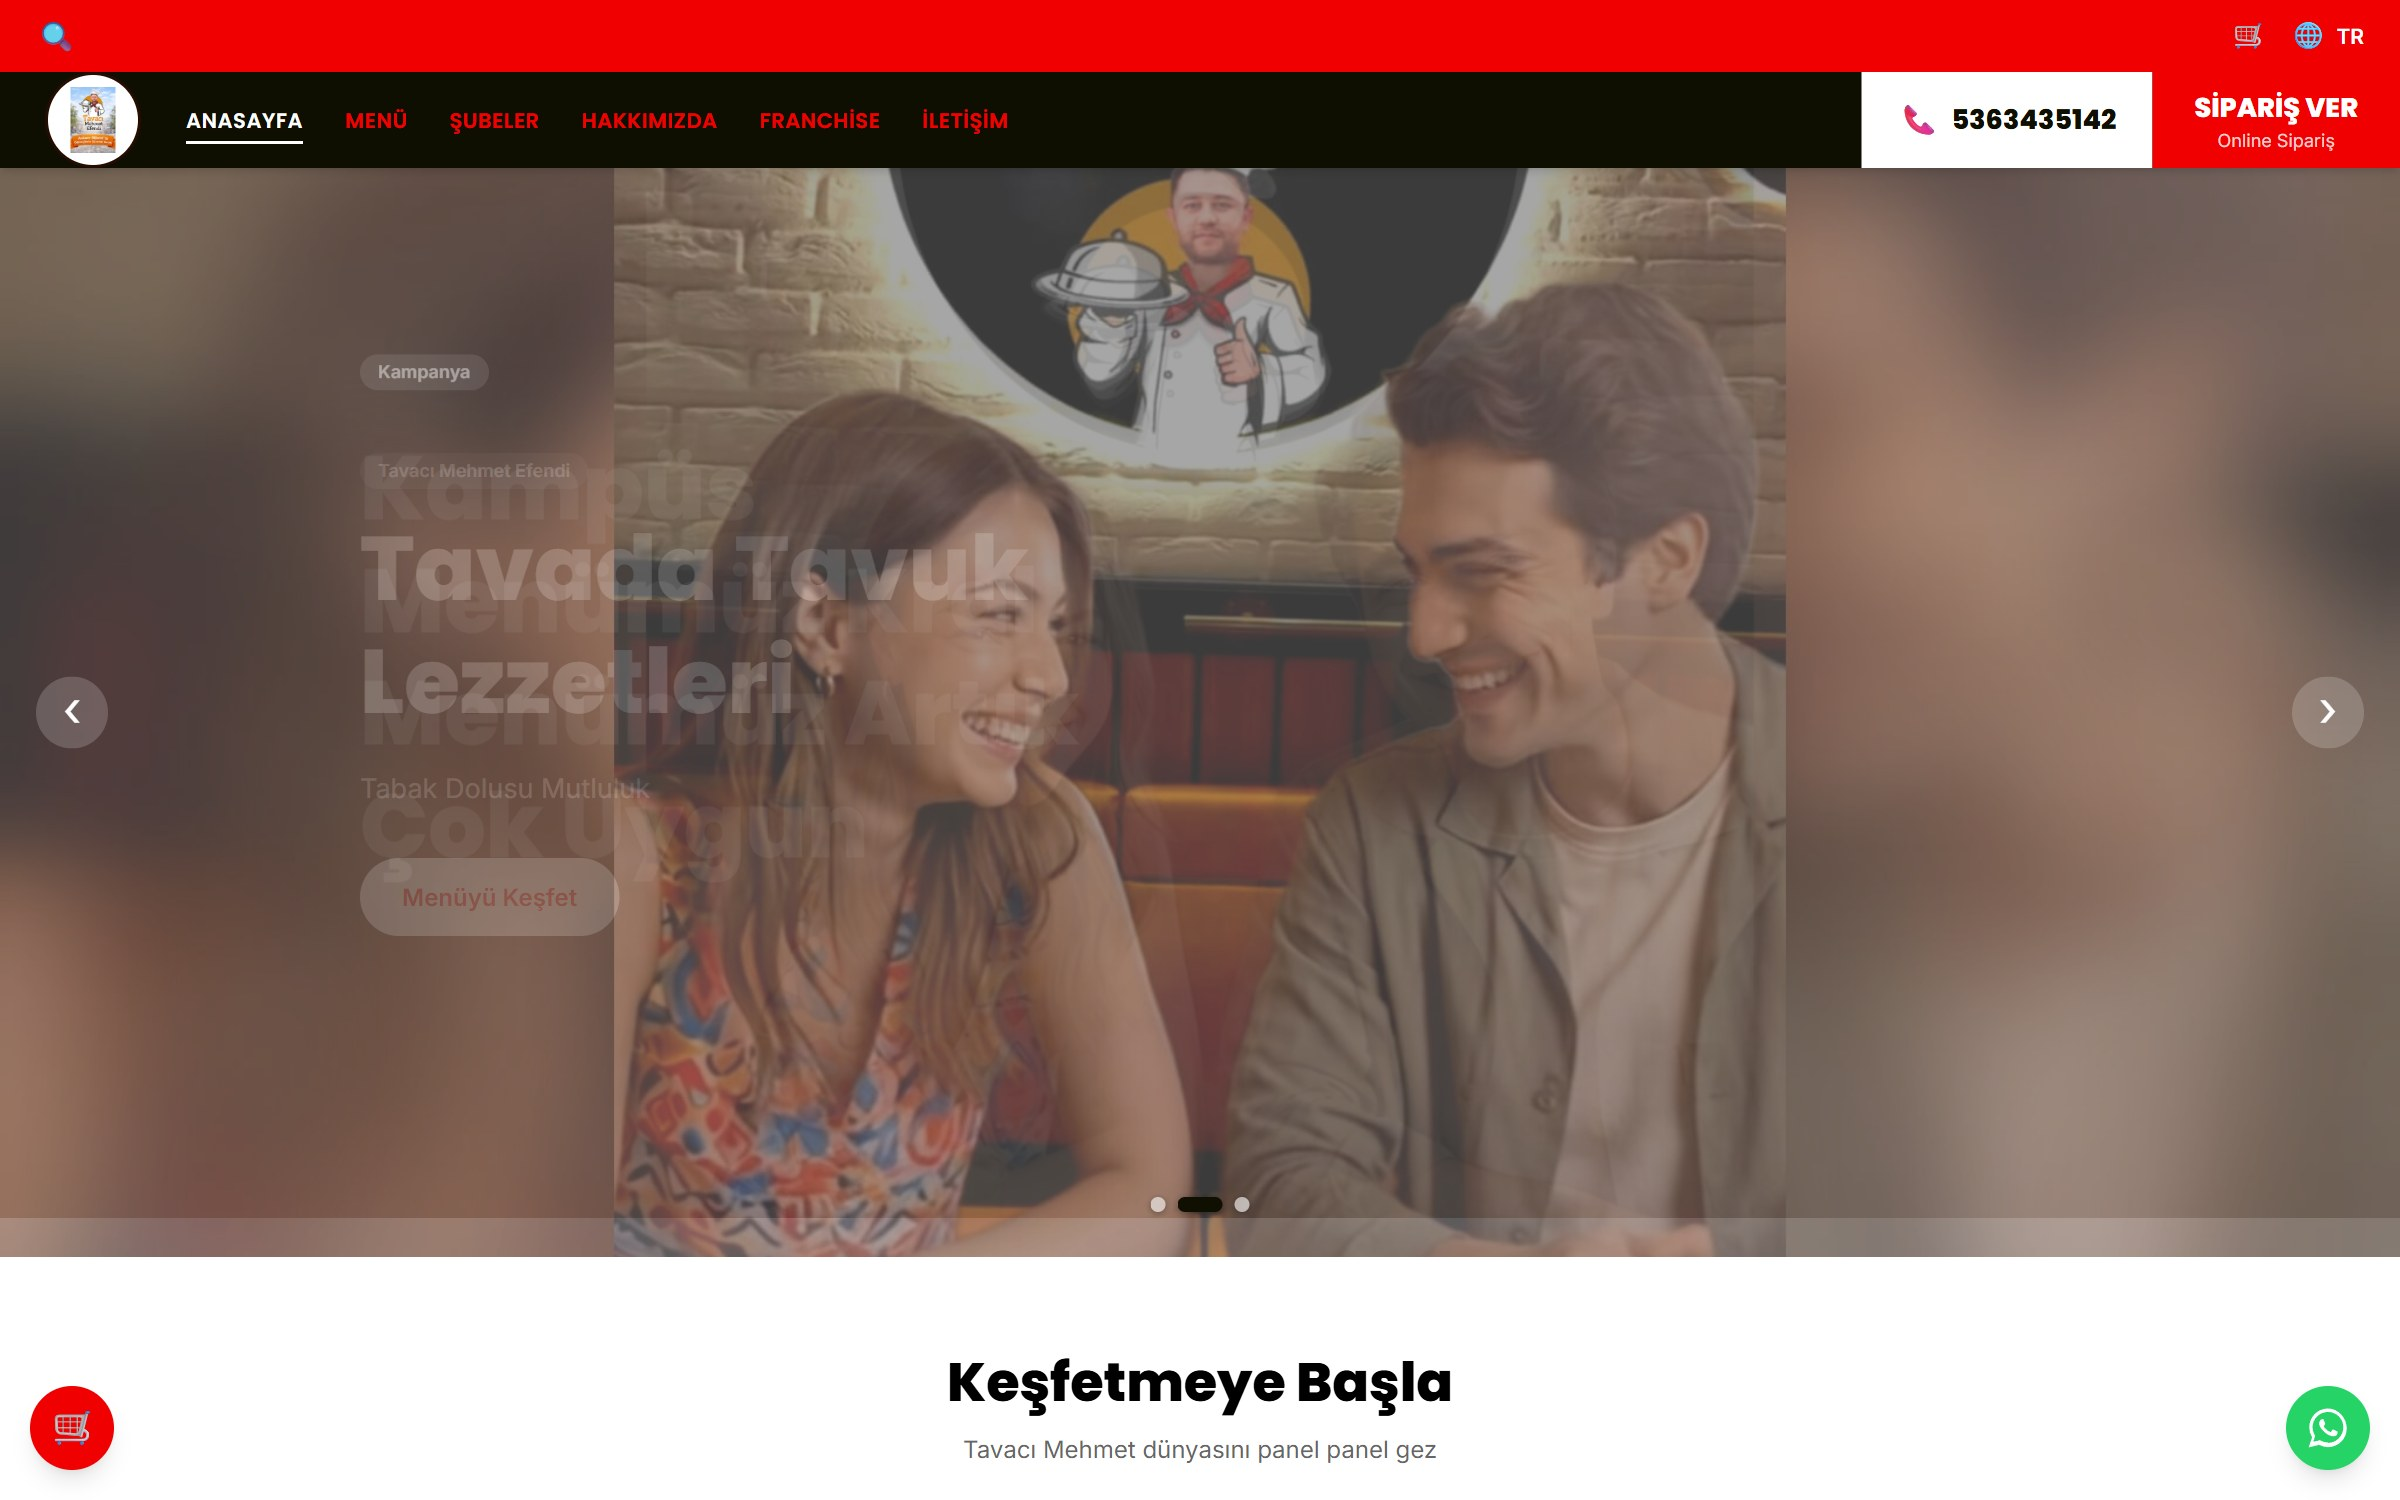
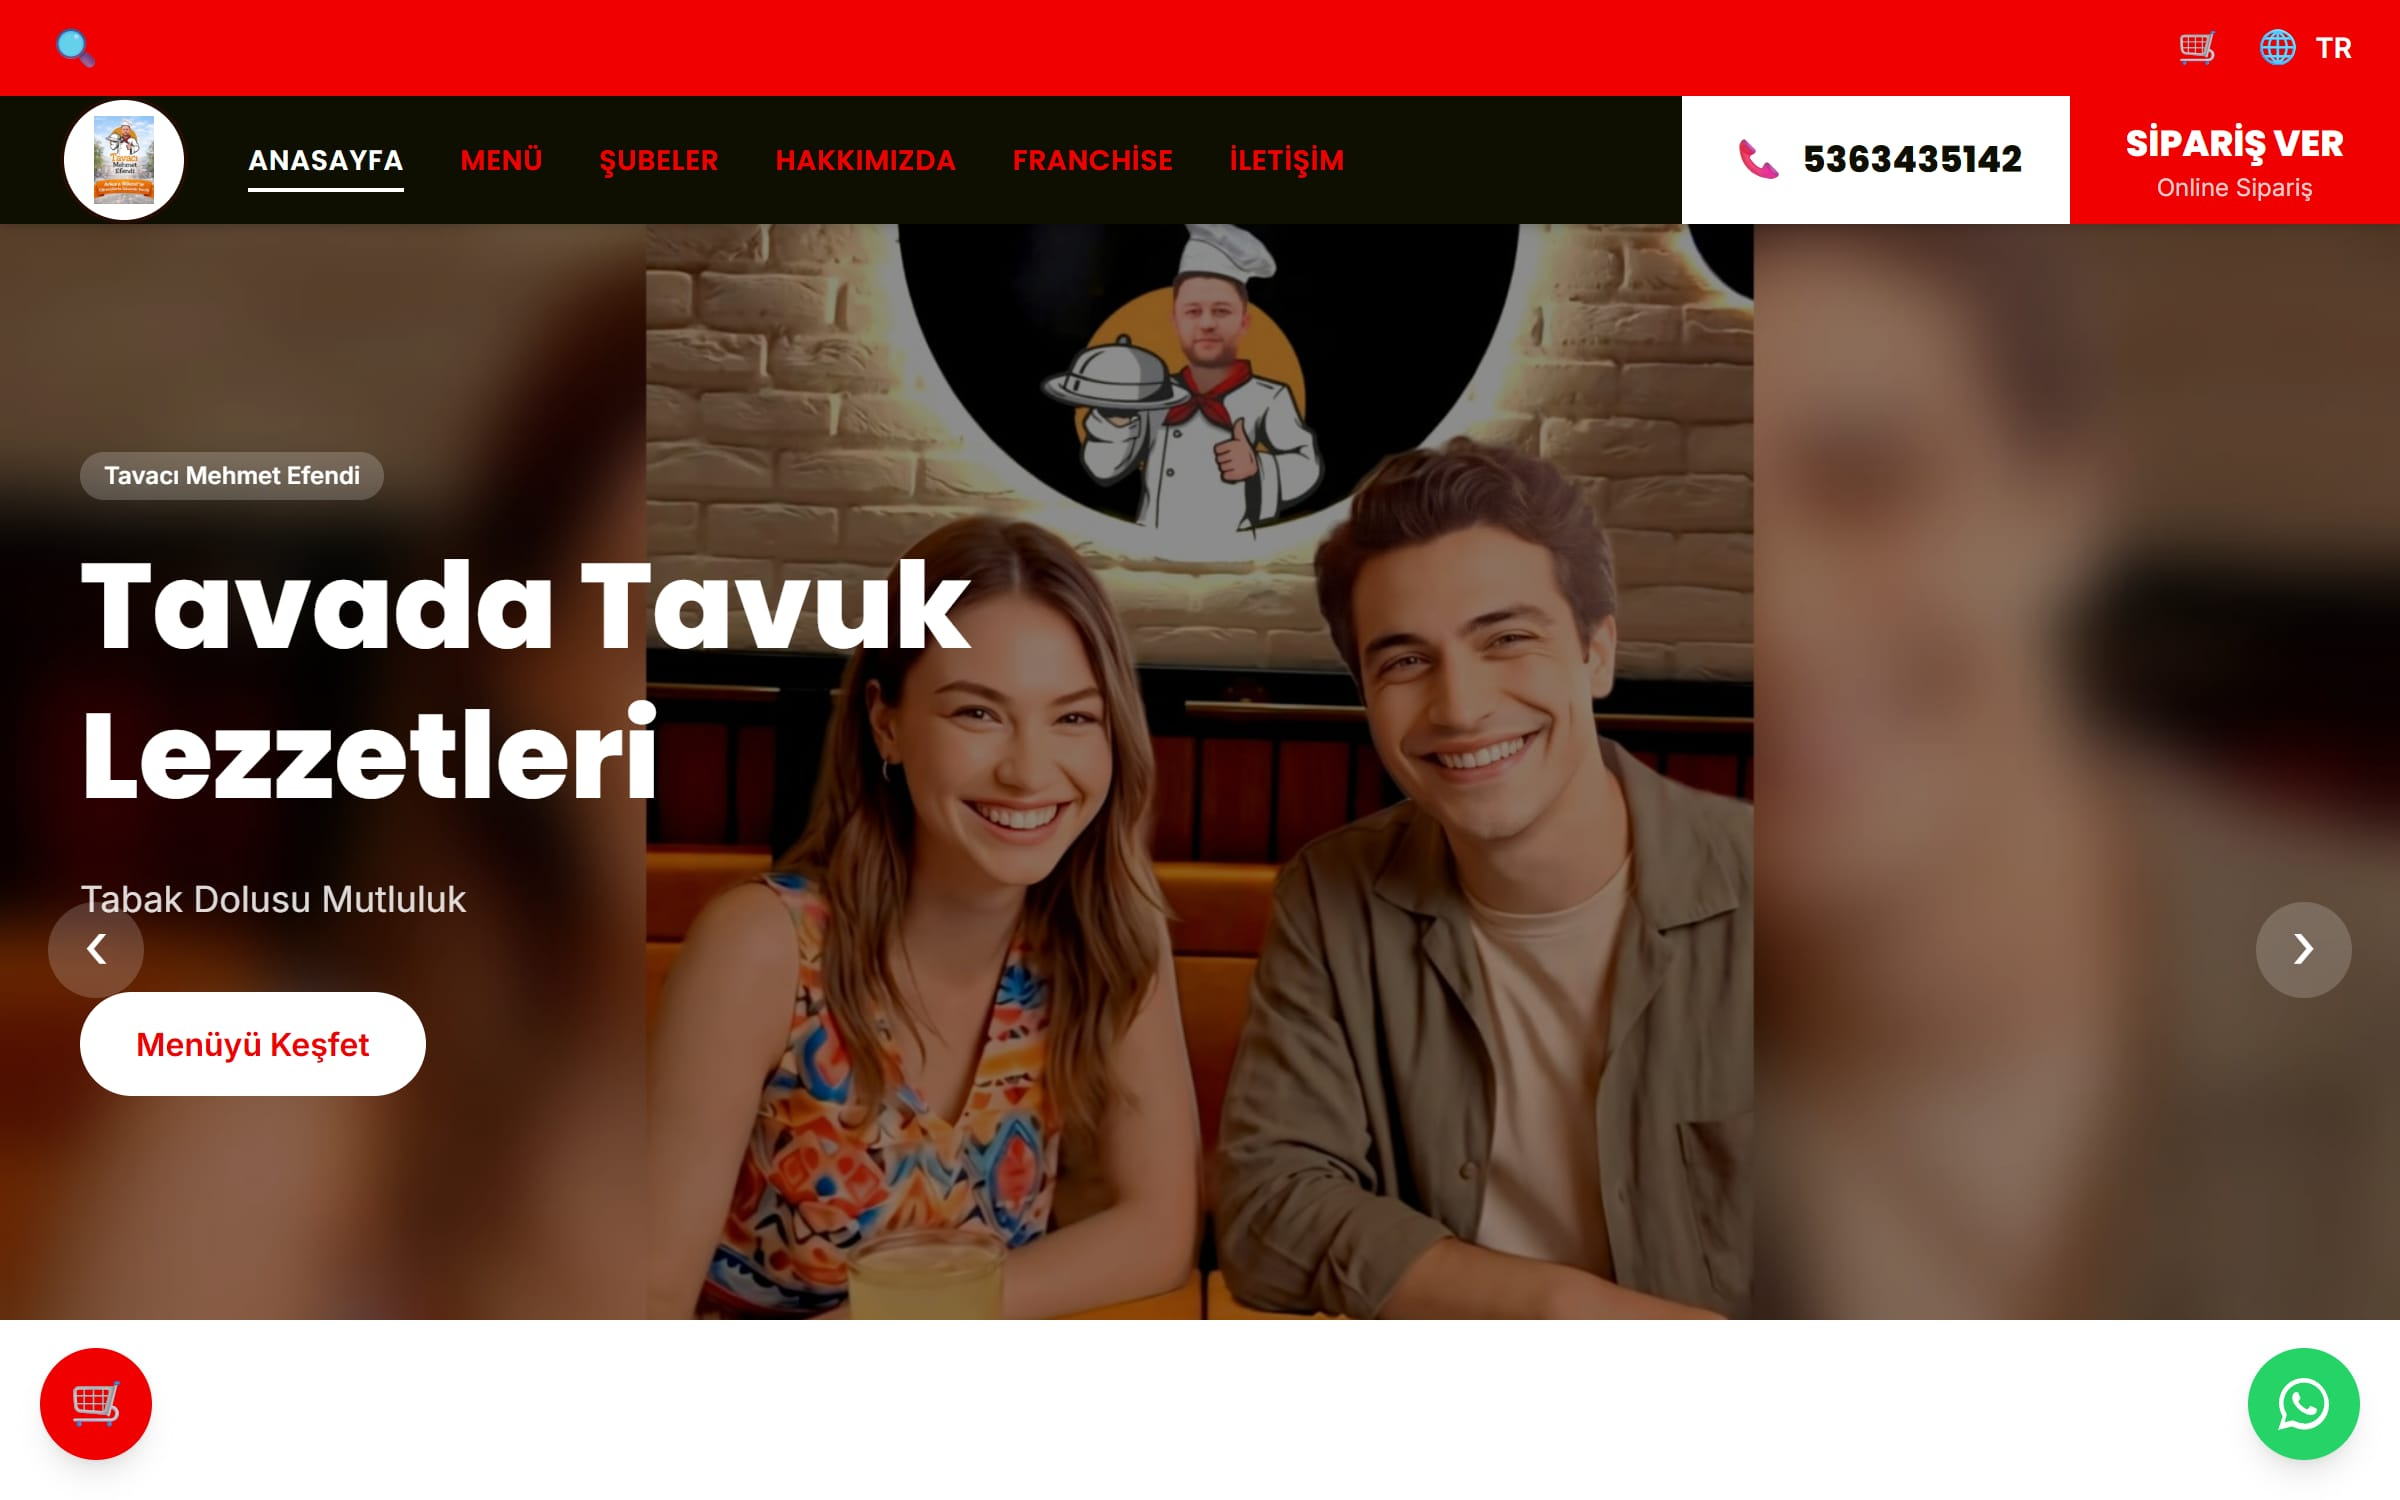
Tavacı ekran görüntüsü temiz kareyle değişti; manifesto drop-cap kaldırıldı
- work-tavaci.jpg/webp: slider geçişi ortasında çekilmiş kare yerine
  oturmuş slide (puppeteer ile yeniden çekildi, 2400x1500)
- Manifesto pull-quote'undaki mavi blok ilk harf (drop-cap) kaldırıldı

diff --git a/components/studio/Manifesto.jsx b/components/studio/Manifesto.jsx
@@ -23,9 +23,9 @@ export function Manifesto() {
           </h2>
         </Reveal>
 
-        {/* Editorial pull-quote + drop-cap */}
+        {/* Editorial pull-quote */}
         <Reveal delay={0.15}>
-          <p className="mt-10 max-w-3xl font-serif text-2xl italic leading-snug text-carbon/85 first-letter:float-left first-letter:mr-3 first-letter:mt-1 first-letter:font-display first-letter:text-6xl first-letter:font-black first-letter:not-italic first-letter:leading-[0.75] first-letter:text-glow sm:text-4xl sm:first-letter:text-8xl">
+          <p className="mt-10 max-w-3xl font-serif text-2xl italic leading-snug text-carbon/85 sm:text-4xl">
             {t(txt.manifesto2)}
           </p>
         </Reveal>
